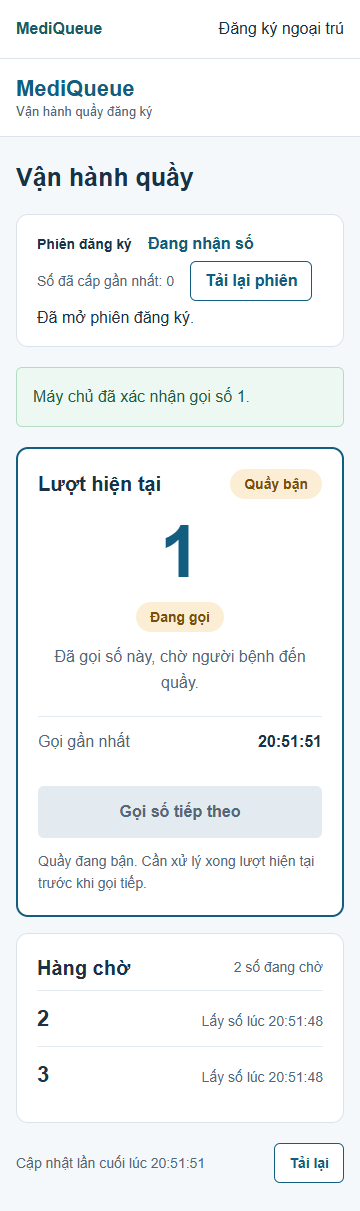
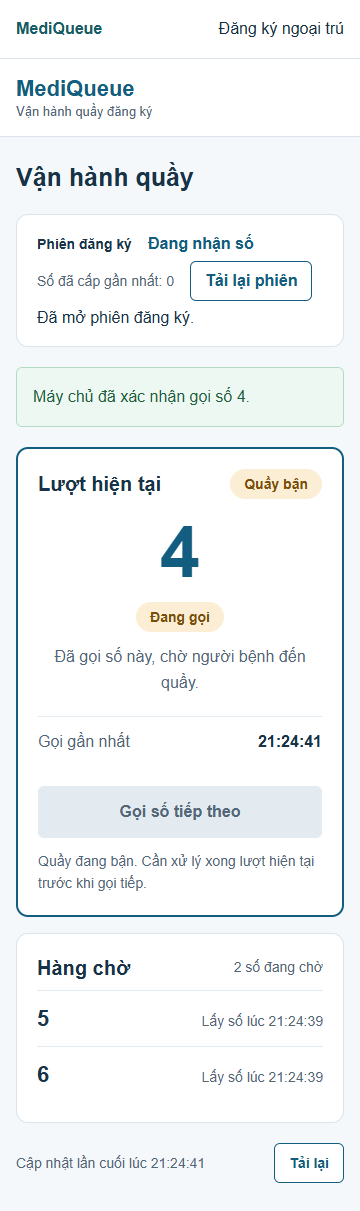
[1.17] Cover remaining real rejection cases and close staff questions
Add E2E cases for double click, login expiry (401) and QUEUE_EMPTY after
cancellation so every "1.17 real" row in staff.md has a run (11/11, two runs).
Mark the four staff questions as answered by design-decisions.md.

diff --git a/tests/e2e/staff-flow.spec.js b/tests/e2e/staff-flow.spec.js
@@ -12,7 +12,7 @@ const patients = {
   P003: '10000000-0000-4000-8000-000000000003',
 };
 
-test('1.17: gọi số từ màn hình quầy qua API 1.11 và PostgreSQL thật', { timeout: 90_000 }, async (t) => {
+test('1.17: gọi số từ màn hình quầy qua API 1.11 và PostgreSQL thật', { timeout: 120_000 }, async (t) => {
   assert.ok(baseURL, 'Đặt MEDIQUEUE_E2E_URL trỏ đến app với PostgreSQL thử mới chạy seed.');
   const require = createRequire(import.meta.url);
   const { chromium } = require('playwright');
@@ -20,9 +20,11 @@ test('1.17: gọi số từ màn hình quầy qua API 1.11 và PostgreSQL thật
   t.after(() => browser.close());
 
   const headers = { Origin: new URL(baseURL).origin };
-  const staff = await browser.newContext({ baseURL, extraHTTPHeaders: headers, viewport: { width: 1280, height: 900 } });
-  const repA = await browser.newContext({ baseURL, extraHTTPHeaders: headers });
-  const repB = await browser.newContext({ baseURL, extraHTTPHeaders: headers });
+  const desktop = { width: 1280, height: 900 };
+  const newContext = (options = {}) => browser.newContext({ baseURL, extraHTTPHeaders: headers, viewport: desktop, ...options });
+  const staff = await newContext();
+  const repA = await newContext();
+  const repB = await newContext();
   const signIn = async (actor, username) => {
     const response = await actor.request.post(`${api}/auth/login`, { data: { username, password } });
     assert.equal(response.status(), 200);
@@ -33,8 +35,33 @@ test('1.17: gọi số từ màn hình quầy qua API 1.11 và PostgreSQL thật
     return page;
   };
   const queue = (page) => page.locator('.staff-queue strong').allInnerTexts();
+  const queueLength = (page, n, timeout) => page.waitForFunction((count) => document.querySelectorAll('.staff-queue strong').length === count, n, { timeout });
   const callButton = (page) => page.getByRole('button', { name: /Gọi số tiếp theo|Đang gọi…/ });
+  const callResponse = (page) => page.waitForResponse((r) => r.url().endsWith('/queue/call-next'));
+  const waitingNumbers = async () => (await (await staff.request.get(`${api}/queue/waiting`, { params: { sessionId } })).json())
+    .data.tickets.map(({ number }) => number);
+  // Cửa sổ nhân viên giữ ảnh chụp cũ: dừng đồng hồ để polling không chạy.
+  // Đồng hồ Playwright áp dụng cho cả context nên mỗi cửa sổ như vậy dùng context riêng.
+  const frozenStaffPage = async (count) => {
+    const context = await newContext();
+    await signIn(context, 'staff_01');
+    const page = await staffPage(context);
+    await page.clock.install();
+    await page.goto('/staff');
+    await queueLength(page, count);
+    await page.clock.pauseAt(new Date(Date.now() + 1000));
+    return page;
+  };
   let sessionId;
+  const issueAll = async () => {
+    const tickets = [];
+    for (const [actor, patientId] of [[repA, patients.P002], [repA, patients.P001], [repB, patients.P003]]) {
+      const issued = await actor.request.post(`${api}/tickets`, { data: { patientId, sessionId, requestId: randomUUID() } });
+      assert.equal(issued.status(), 201);
+      tickets.push({ actor, ticket: (await issued.json()).data.ticket });
+    }
+    return tickets;
+  };
 
   await t.test('chưa đăng nhập: không hiện dữ liệu quầy', async () => {
     const anonymous = await browser.newContext({ baseURL });
@@ -61,61 +88,96 @@ test('1.17: gọi số từ màn hình quầy qua API 1.11 và PostgreSQL thật
     assert.ok(sessionId);
   });
 
+  await signIn(repA, 'rep_a');
+  await signIn(repB, 'rep_b');
+  let firstRound;
+
   await t.test('phiếu thật lấy từ tài khoản đại diện tự hiện trên quầy nhờ polling', async () => {
-    await signIn(repA, 'rep_a');
-    await signIn(repB, 'rep_b');
-    for (const [actor, patientId] of [[repA, patients.P002], [repA, patients.P001], [repB, patients.P003]]) {
-      const issued = await actor.request.post(`${api}/tickets`, { data: { patientId, sessionId, requestId: randomUUID() } });
-      assert.equal(issued.status(), 201);
-    }
+    firstRound = await issueAll();
     // Polling 3 giây, không tải lại trang.
-    await pageA.waitForFunction(() => document.querySelectorAll('.staff-queue strong').length === 3, null, { timeout: 7000 });
+    await queueLength(pageA, 3, 7000);
     assert.deepEqual(await queue(pageA), ['1', '2', '3']);
     assert.equal(await callButton(pageA).isEnabled(), true);
     // Màn hình không hiện UUID hoặc tên người bệnh.
     assert.doesNotMatch(await pageA.locator('.staff-page').innerText(), /[0-9a-f]{8}-[0-9a-f]{4}-|Người bệnh mô phỏng/);
   });
 
-  // Cửa sổ thứ hai cùng tài khoản giữ ảnh chụp cũ: dừng đồng hồ để polling không chạy.
-  // Đồng hồ Playwright áp dụng cho cả context nên cửa sổ này dùng context riêng.
-  const staffB = await browser.newContext({ baseURL, extraHTTPHeaders: headers, viewport: { width: 1280, height: 900 } });
-  await signIn(staffB, 'staff_01');
-  const pageB = await staffPage(staffB);
-  await pageB.clock.install();
-  await pageB.goto('/staff');
-  await pageB.waitForFunction(() => document.querySelectorAll('.staff-queue strong').length === 3);
-  await pageB.clock.pauseAt(new Date(Date.now() + 1000));
+  await t.test('hết phiên đăng nhập khi bấm gọi: 401, bỏ dữ liệu quầy, không đổi DB', async () => {
+    const context = await newContext();
+    await signIn(context, 'staff_01');
+    const page = await staffPage(context);
+    await page.goto('/staff');
+    await queueLength(page, 3);
+    await context.clearCookies();
+    const response = callResponse(page);
+    await callButton(page).click();
+    assert.equal((await response).status(), 401);
+    await page.getByText('Bạn cần đăng nhập bằng tài khoản nhân viên', { exact: false }).first().waitFor();
+    assert.equal(await page.getByText('Chưa nhận được xác nhận', { exact: false }).count(), 0);
+    assert.equal(await page.locator('.staff-layout').count(), 0);
+    assert.deepEqual(await waitingNumbers(), [1, 2, 3]);
+    await context.close();
+  });
 
-  await t.test('gọi số đổi Ticket thành CALLED trong cơ sở dữ liệu', async () => {
-    const response = pageA.waitForResponse((r) => r.url().endsWith('/queue/call-next'));
-    await callButton(pageA).click();
+  await t.test('hàng chờ vừa hết ở máy chủ: 409 QUEUE_EMPTY, tải lại thấy hàng rỗng', async () => {
+    const page = await frozenStaffPage(3);
+    for (const { actor, ticket } of firstRound) {
+      const cancelled = await actor.request.post(`${api}/tickets/${ticket.ticketId}/cancel`);
+      assert.equal(cancelled.status(), 200);
+    }
+    assert.deepEqual(await queue(page), ['1', '2', '3']);
+    const response = callResponse(page);
+    await callButton(page).click();
+    assert.equal((await response).status(), 409);
+    await page.getByText('hàng chờ đã hết', { exact: false }).waitFor();
+    await page.getByText('Hàng chờ đang trống, chưa có số để gọi.').waitFor();
+    assert.equal(await page.locator('.staff-ticket-number').count(), 0);
+    assert.deepEqual(await waitingNumbers(), []);
+    await page.context().close();
+  });
+
+  let pageB;
+  await t.test('phiếu mới sau khi hủy hiện lại nhờ polling', async () => {
+    await issueAll();
+    // Cửa sổ A vẫn có thể đang hiện 1, 2, 3 cũ: chờ đúng số mới, không chỉ đủ độ dài.
+    await pageA.waitForFunction(() => [...document.querySelectorAll('.staff-queue strong')]
+      .map((node) => node.textContent).join(',') === '4,5,6', null, { timeout: 7000 });
+    pageB = await frozenStaffPage(3);
+  });
+
+  await t.test('bấm hai lần nhanh: một yêu cầu, Ticket thành CALLED trong cơ sở dữ liệu', async () => {
+    const posts = [];
+    pageA.on('request', (request) => { if (request.url().endsWith('/queue/call-next')) posts.push(request.method()); });
+    const response = callResponse(pageA);
+    await callButton(pageA).dblclick();
     assert.equal((await response).status(), 200);
-    await pageA.getByText('Máy chủ đã xác nhận gọi số 1.').waitFor();
-    await pageA.locator('.staff-ticket-number', { hasText: '1' }).waitFor();
-    await pageA.waitForFunction(() => document.querySelectorAll('.staff-queue strong').length === 2);
-    assert.deepEqual(await queue(pageA), ['2', '3']);
+    await pageA.getByText('Máy chủ đã xác nhận gọi số 4.').waitFor();
+    await pageA.locator('.staff-ticket-number', { hasText: '4' }).waitFor();
+    await queueLength(pageA, 2);
+    assert.deepEqual(posts, ['POST']);
+    assert.equal(await pageA.getByText('Máy chủ đã xác nhận', { exact: false }).count(), 1);
+    assert.deepEqual(await queue(pageA), ['5', '6']);
     assert.equal(await callButton(pageA).isDisabled(), true);
     await pageA.getByText('Quầy đang bận. Cần xử lý xong lượt hiện tại trước khi gọi tiếp.').waitFor();
 
     // Đọc lại từ máy chủ bằng phiên khác của trình duyệt, không dựa vào UI.
     const current = await (await staff.request.get(`${api}/queue/current`, { params: { sessionId } })).json();
-    assert.equal(current.data.ticket.number, 1);
+    assert.equal(current.data.ticket.number, 4);
     assert.equal(current.data.ticket.status, 'CALLED');
     const owner = await repA.request.get(`${api}/tickets/active`, { params: { patientId: patients.P002, sessionId } });
     assert.equal((await owner.json()).data.ticket.status, 'CALLED');
   });
 
-  await t.test('hai cửa sổ: cửa sổ dữ liệu cũ bị từ chối và tải lại theo máy chủ', async () => {
-    assert.deepEqual(await queue(pageB), ['1', '2', '3']);
-    const response = pageB.waitForResponse((r) => r.url().endsWith('/queue/call-next'));
+  await t.test('hai cửa sổ: cửa sổ dữ liệu cũ bị từ chối COUNTER_BUSY và tải lại theo máy chủ', async () => {
+    assert.deepEqual(await queue(pageB), ['4', '5', '6']);
+    const response = callResponse(pageB);
     await callButton(pageB).click();
     assert.equal((await response).status(), 409);
     await pageB.getByText('quầy đang có lượt khác', { exact: false }).waitFor();
-    await pageB.waitForFunction(() => document.querySelectorAll('.staff-queue strong').length === 2);
-    assert.equal(await pageB.locator('.staff-ticket-number').innerText(), '1');
+    await queueLength(pageB, 2);
+    assert.equal(await pageB.locator('.staff-ticket-number').innerText(), '4');
     assert.equal(await pageB.getByText('Máy chủ đã xác nhận', { exact: false }).count(), 0);
-    const waiting = await (await staff.request.get(`${api}/queue/waiting`, { params: { sessionId } })).json();
-    assert.deepEqual(waiting.data.tickets.map(({ number }) => number), [2, 3]);
+    assert.deepEqual(await waitingNumbers(), [5, 6]);
   });
 
   await t.test('tài khoản thường không vận hành được quầy', async () => {
@@ -127,8 +189,7 @@ test('1.17: gọi số từ màn hình quầy qua API 1.11 và PostgreSQL thật
     const direct = await repA.request.post(`${api}/queue/call-next`, { data: { sessionId } });
     assert.equal(direct.status(), 403);
     assert.equal((await direct.json()).error.code, 'FORBIDDEN');
-    const waiting = await (await staff.request.get(`${api}/queue/waiting`, { params: { sessionId } })).json();
-    assert.deepEqual(waiting.data.tickets.map(({ number }) => number), [2, 3]);
+    assert.deepEqual(await waitingNumbers(), [5, 6]);
   });
 
   await t.test('360 px không tràn ngang', async () => {
@@ -136,7 +197,7 @@ test('1.17: gọi số từ màn hình quầy qua API 1.11 và PostgreSQL thật
     assert.equal(await pageA.evaluate(() => document.documentElement.scrollWidth <= innerWidth), true);
     if (process.env.MEDIQUEUE_E2E_SHOTS) {
       await pageA.screenshot({ path: `${process.env.MEDIQUEUE_E2E_SHOTS}/mobile-called-real.png`, fullPage: true });
-      await pageA.setViewportSize({ width: 1280, height: 900 });
+      await pageA.setViewportSize(desktop);
       await pageA.screenshot({ path: `${process.env.MEDIQUEUE_E2E_SHOTS}/desktop-called-real.png`, fullPage: true });
       await pageB.clock.resume(); // Ảnh chụp cần khung hình chạy tiếp.
       await pageB.screenshot({ path: `${process.env.MEDIQUEUE_E2E_SHOTS}/desktop-conflict-real.png`, fullPage: true });

diff --git a/docs/testing/cases/1-17.md b/docs/testing/cases/1-17.md
@@ -39,16 +39,19 @@ npm run build                # đạt
 # gốc repo, app chạy trên DB dev mới migrate + seed, chưa có phiên
 npm install --no-save --no-package-lock playwright
 $env:MEDIQUEUE_E2E_URL = 'http://localhost:5173'
-node --test tests/e2e/staff-flow.spec.js   # 8/8 đạt
+node --test tests/e2e/staff-flow.spec.js   # 11/11 đạt (10 ca con)
 ```
 
 Log: `../evidence/1-17/server-tests.tap`, `client-tests.tap`,
 `client-build.txt`, `e2e-staff-flow.tap`.
 
-Lần chạy E2E đầu, ca 7 lỗi khi chụp ảnh vì đồng hồ Playwright dừng cho cả
-context, kể cả cửa sổ A. Đã tách cửa sổ B sang context riêng cùng tài khoản
-`staff_01`, tạo lại dữ liệu phiên/phiếu và chạy lại toàn bộ 8/8. Mã UI không đổi
-giữa các lần chạy.
+Lần chạy E2E đầu, ca chụp ảnh lỗi vì đồng hồ Playwright dừng cho cả context, kể
+cả cửa sổ A. Đã tách mỗi cửa sổ dừng polling sang context riêng cùng tài khoản
+`staff_01`. Sau khi đối chiếu `docs/requirements/staff.md`, bổ sung ba ca bảng
+từ chối còn ghi "1.17 thật" (bấm hai lần, hết phiên đăng nhập, `QUEUE_EMPTY`);
+một lần chạy lỗi do test chỉ chờ đủ độ dài hàng chờ mà chưa chờ số mới, đã sửa
+điều kiện chờ. Bản cuối chạy hai lần liên tiếp trên DB mới đều 11/11. Mã UI
+không đổi giữa các lần chạy.
 
 ## Ca E2E trên app thật
 
@@ -57,26 +60,32 @@ giữa các lần chạy.
 | E2E-1 Chưa đăng nhập | Trình duyệt không cookie mở `/staff` | Báo cần đăng nhập, không có panel quầy hoặc nút gọi | Đạt |
 | E2E-2 Mở phiên | `staff_01` mở `/staff`, bấm Mở phiên ở SessionPanel | Phiên OPEN; StaffPage hiện "Hàng chờ đang trống" ngay qua `onSessionChange`, không bấm tải lại | Đạt |
 | E2E-3 Polling | `rep_a` lấy số cho P002, P001; `rep_b` cho P003 qua API thật | Quầy tự hiện 1, 2, 3 trong ≤ 7 giây, không tải lại trang; không có UUID/tên trên màn hình | Đạt |
-| E2E-4 Gọi số | Bấm Gọi số tiếp theo | `POST /queue/call-next` 200; báo đã xác nhận số 1; lượt hiện tại 1, chờ 2, 3; nút khóa. `GET /queue/current` và `GET /tickets/active` của `rep_a` đều trả CALLED | Đạt |
-| E2E-5 Hai cửa sổ | Cửa sổ B mở trước khi gọi, dừng polling; bấm gọi sau khi A đã gọi | 409 `COUNTER_BUSY`, báo từ chối, tự tải lại thấy lượt 1 và chờ 2, 3; không báo thành công | Đạt |
-| E2E-6 Tài khoản thường | `rep_a` mở `/staff`; gọi thẳng `POST /queue/call-next` | Báo không có quyền, không hàng chờ/nút; API 403 `FORBIDDEN`; hàng chờ không đổi | Đạt |
-| E2E-7 360 px | Màn hình sau khi gọi | Không tràn ngang; ảnh `mobile-called-real.png` | Đạt |
+| E2E-4 Hết phiên đăng nhập | Cửa sổ nhân viên có 1, 2, 3; xóa cookie rồi bấm gọi | 401; báo cần đăng nhập, không báo "chưa có xác nhận", bỏ dữ liệu quầy; hàng chờ trong DB vẫn 1, 2, 3 | Đạt |
+| E2E-5 `QUEUE_EMPTY` | Cửa sổ dừng polling thấy 1, 2, 3; chủ phiếu hủy cả ba qua `POST /tickets/{id}/cancel` (2.13); bấm gọi | 409 `QUEUE_EMPTY`, báo hàng chờ đã hết, tự tải lại thấy hàng rỗng, không có số | Đạt |
+| E2E-6 Phiếu mới | Cấp lại cho P002, P001, P003 | Quầy tự hiện 4, 5, 6 nhờ polling | Đạt |
+| E2E-7 Bấm hai lần, gọi số | Bấm đúp Gọi số tiếp theo | Đúng một `POST /queue/call-next` 200, một thông báo đã xác nhận số 4; lượt hiện tại 4, chờ 5, 6; nút khóa. `GET /queue/current` và `GET /tickets/active` của `rep_a` đều trả CALLED | Đạt |
+| E2E-8 Hai cửa sổ | Cửa sổ B mở trước khi gọi, dừng polling; bấm gọi sau khi A đã gọi | 409 `COUNTER_BUSY`, báo từ chối, tự tải lại thấy lượt 4 và chờ 5, 6; không báo thành công | Đạt |
+| E2E-9 Tài khoản thường | `rep_a` mở `/staff`; gọi thẳng `POST /queue/call-next` | Báo không có quyền, không hàng chờ/nút; API 403 `FORBIDDEN`; hàng chờ không đổi | Đạt |
+| E2E-10 360 px | Màn hình sau khi gọi | Không tràn ngang; ảnh `mobile-called-real.png` | Đạt |
 
 ## Đối chiếu PostgreSQL sau E2E
 
 Truy vấn trực tiếp DB dev (`../evidence/1-17/db-after-e2e.txt`):
 
-- `tickets`: số 1 (P002) `CALLED`, có `last_called_at`; số 2, 3 `WAITING`.
-- `ticket_events`: 3 `ISSUED` của `rep_a`/`rep_b` và đúng một `CALLED`
-  (WAITING → CALLED) của `staff_01`. Lần gọi 409 ở cửa sổ B không tạo sự kiện.
+- `tickets`: số 1–3 `CANCELLED`; số 4 (P002) `CALLED`, có `last_called_at`;
+  số 5, 6 `WAITING`.
+- `ticket_events`: 6 `ISSUED`, 3 `CANCELLED` của chủ phiếu và đúng một `CALLED`
+  (WAITING → CALLED) của `staff_01`. Các lần gọi 401, `QUEUE_EMPTY`,
+  `COUNTER_BUSY` và cú bấm thứ hai không tạo sự kiện.
 
 ## Đối chiếu AC
 
-- Gọi số từ giao diện đổi trạng thái thật trong DB: E2E-4 và truy vấn DB.
-- Sau thao tác đọc lại máy chủ, khóa nút khi đang gửi: E2E-4; khóa khi gửi
-  giữ nguyên từ 1.16.
-- Hai cửa sổ xung đột phải tải lại: E2E-5.
-- Tài khoản thường không vận hành được quầy: E2E-6 (UI và API).
+- Gọi số từ giao diện đổi trạng thái thật trong DB: E2E-7 và truy vấn DB.
+- Sau thao tác đọc lại máy chủ, khóa nút khi đang gửi, bấm lặp chỉ gửi một yêu
+  cầu: E2E-7.
+- Hai cửa sổ xung đột phải tải lại: E2E-8; hàng chờ vừa hết: E2E-5.
+- Tài khoản thường không vận hành được quầy: E2E-9 (UI và API); hết phiên đăng
+  nhập: E2E-4.
 - Không giữ số lượt riêng trong trình duyệt: mọi số lấy từ API; mock chỉ dùng
   khi truyền `api` và `demo`.
 - Polling 3 giây, bỏ lượt khi lần trước chưa xong, dừng khi rời trang
@@ -90,5 +99,7 @@ Truy vấn trực tiếp DB dev (`../evidence/1-17/db-after-e2e.txt`):
 - Trang `/staff` và `/patient` đều có hai header (khung app 1.19 và header riêng
   của trang). Không sửa ở 1.17; cần Trực/An chốt bố cục chung.
 - Gọi lại, bắt đầu, hoàn tất, ghi vắng thuộc 2.16, 2.17.
-- Chưa đối chiếu với `/board` của 1.20 vì PR #9 chưa merge.
+- Chưa đối chiếu với `/board` của 1.20 vì PR #9 chưa merge; ngày 14/11 PR #9
+  xung đột với `main` ở `server/src/app/routes.js` sau khi #13 merge (không do
+  1.17, nhánh này không sửa tệp đó).
 - Không tự điền giờ làm thực tế hoặc đóng task.

diff --git a/docs/requirements/staff.md b/docs/requirements/staff.md
@@ -96,16 +96,19 @@ cả khi mở URL trực tiếp.
 
 ## Ca từ chối cần kiểm thử
 
+Các ca "1.17 thật" đã chạy bằng `tests/e2e/staff-flow.spec.js` trên Express và
+PostgreSQL; số ca E2E ở cột cuối theo `docs/testing/cases/1-17.md`.
+
 | Tình huống | Dữ liệu đầu | Kết quả mong đợi | Task |
 | --- | --- | --- | --- |
 | Quầy bận, thử gọi tiếp | Có CALLED hoặc REGISTERING | Nút khóa, ghi rõ lý do | 1.16 |
 | Hàng rỗng | Quầy rảnh, không có WAITING | Nút khóa, không có số giả | 1.16 |
 | Chưa có phiên | `data=null` | Không gọi API hàng chờ, nút khóa | 1.16 |
-| Cửa sổ khác vừa gọi | UI thấy quầy rảnh, API trả COUNTER_BUSY | Báo từ chối, tải lại thấy lượt thật | 1.16 mock; 1.17 thật |
-| Phiếu cuối vừa bị hủy | UI thấy còn phiếu, API trả QUEUE_EMPTY | Báo từ chối, tải lại thấy hàng rỗng | 1.16 mock; 1.17 thật |
-| Bấm hai lần nhanh | Quầy rảnh, còn phiếu | Một yêu cầu, một thông báo thành công | 1.16 mock; 1.17 thật |
-| Tài khoản thường | REPRESENTATIVE (`rep_a`) mở `/staff` | 403 `FORBIDDEN`, không thấy hàng chờ, không vận hành được quầy | 1.16 mock; 1.17 thật |
-| Hết phiên đăng nhập | Cookie hết hạn khi bấm gọi | 401 `UNAUTHENTICATED`, không báo "chưa có xác nhận", bỏ dữ liệu quầy | 1.16 mock; 1.17 thật |
+| Cửa sổ khác vừa gọi | UI thấy quầy rảnh, API trả COUNTER_BUSY | Báo từ chối, tải lại thấy lượt thật | 1.16 mock; 1.17 thật (E2E-8) |
+| Phiếu cuối vừa bị hủy | UI thấy còn phiếu, API trả QUEUE_EMPTY | Báo từ chối, tải lại thấy hàng rỗng | 1.16 mock; 1.17 thật (E2E-5) |
+| Bấm hai lần nhanh | Quầy rảnh, còn phiếu | Một yêu cầu, một thông báo thành công | 1.16 mock; 1.17 thật (E2E-7) |
+| Tài khoản thường | REPRESENTATIVE (`rep_a`) mở `/staff` | 403 `FORBIDDEN`, không thấy hàng chờ, không vận hành được quầy | 1.16 mock; 1.17 thật (E2E-9) |
+| Hết phiên đăng nhập | Cookie hết hạn khi bấm gọi | 401 `UNAUTHENTICATED`, không báo "chưa có xác nhận", bỏ dữ liệu quầy | 1.16 mock; 1.17 thật (E2E-4) |
 
 ## Ranh giới và bàn giao
 
@@ -118,6 +121,12 @@ cả khi mở URL trực tiếp.
 - Không sửa auth, FIFO, API phiên, routes chung hoặc khung app thay chủ mô đun.
 
 ## Câu hỏi cần chốt
+
+Đã chốt: An trả lời cả bốn câu ở `docs/design/staff/design-decisions.md`
+(mục 1–4). Màn hình quầy chỉ hiện số theo `TicketView` v1.0; SessionPanel gọi
+`onSessionChange()`; polling 3 giây, bỏ lượt khi lần trước chưa xong; lỗi đọc từ
+`ApiError` của `http.js`. Task 1.17 đã triển khai theo các quyết định này
+(`docs/testing/cases/1-17.md`). Nội dung gốc giữ lại bên dưới để đối chiếu.
 
 Theo mẫu Tên — WBS — vấn đề — ảnh hưởng — phương án xử lý.
 
@@ -138,7 +147,7 @@ Theo mẫu Tên — WBS — vấn đề — ảnh hưởng — phương án xử
 
 ## Phần còn lại của task 1.18
 
-- An duyệt user stories/AC và trả lời các câu hỏi trên.
+- An duyệt user stories/AC (bốn câu hỏi trên đã được trả lời).
 - Cập nhật tài liệu mô đun theo phần đã tích hợp.
 - Trung review task 1.19 và 1.20 của Trực; xử lý review phần mình.
 - Kiểm tra tích hợp, planning, review và retrospective có bằng chứng.
